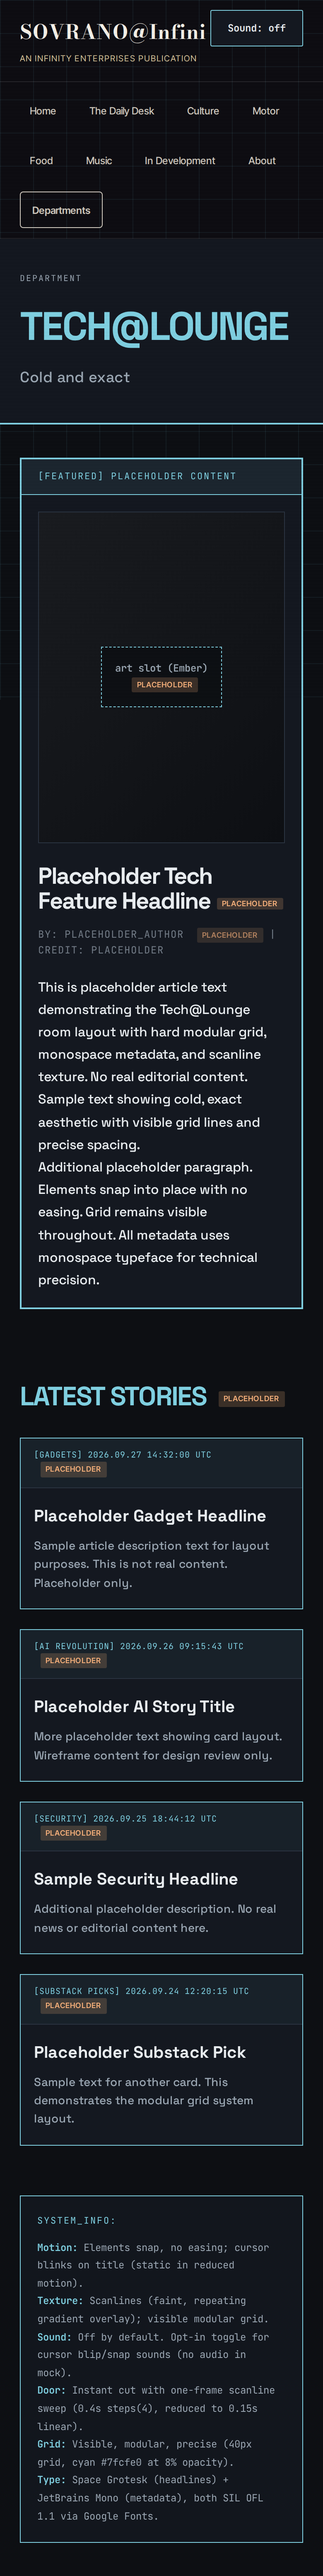
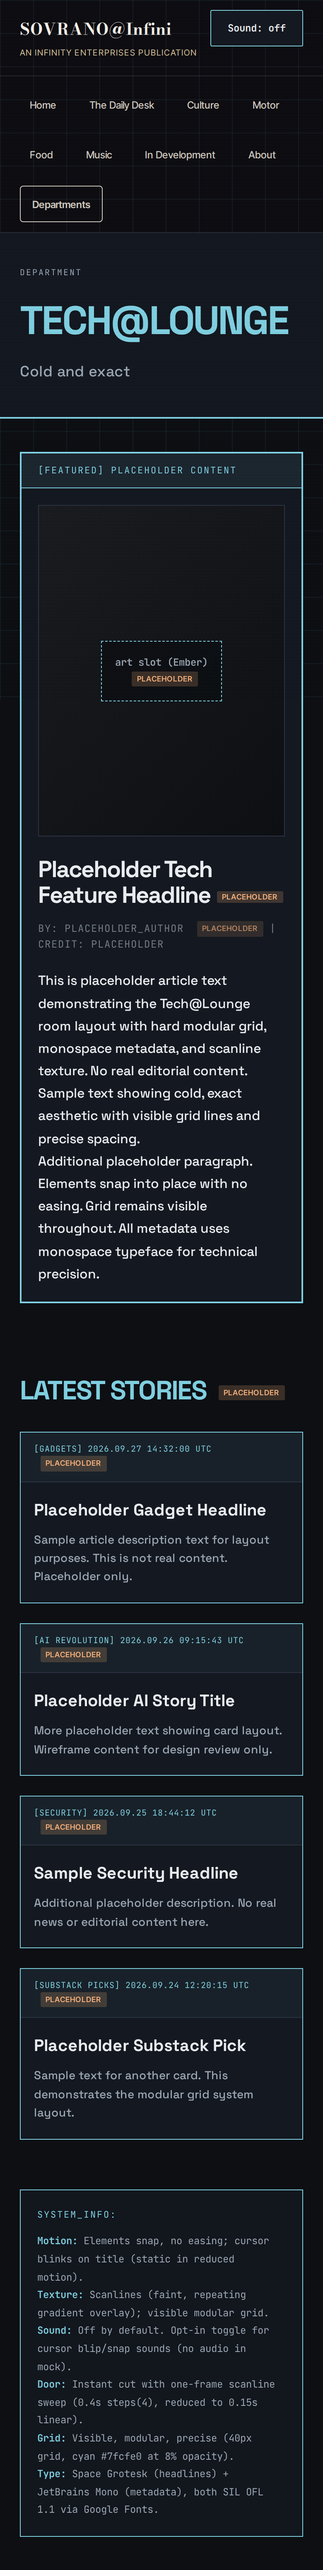
Fix issue #35 v2 comparison images and phone masthead (#35)
Two fixes:
1. BLOCKER: Rebuilt comparison PNGs with PIL (not iframe composition) to show real content instead of solid black. Desktop (4320x3400) and phone (2340x7344) now composite three individual room screenshots side-by-side deterministically. Verified variance: desktop min=0 max=251 mean=81.13, phone min=0 max=251 mean=87.03 (not solid color).

2. MINOR: Fixed masthead wordmark clipping at 390px. Added right padding (100px) and clamp font-size (18-24px) so SOVRANO@Infini displays fully without sound toggle overlap at 390px and 360px viewports.

Re-captured phone screenshots (music, tech-lounge, food) and rebuilt phone comparison. Build passes.

diff --git a/design/issue-mocks/issue-35-v2/shell.css b/design/issue-mocks/issue-35-v2/shell.css
@@ -138,10 +138,12 @@ button:focus,
 @media (max-width: 768px) {
   .masthead {
     padding: 20px 24px;
+    padding-right: 100px; /* Reserve space for sound toggle */
   }
   
   .masthead-wordmark {
-    font-size: 24px;
+    font-size: clamp(18px, 5vw, 24px);
+    word-break: break-word;
   }
   
   .masthead-subline {

diff --git a/design/issue-mocks/issue-35-v2/build-comparisons.py b/design/issue-mocks/issue-35-v2/build-comparisons.py
@@ -1,0 +1,126 @@
+#!/usr/bin/env python3
+"""
+Build comparison boards from individual room screenshots
+Deterministic image composition using PIL
+"""
+
+from PIL import Image, ImageDraw, ImageFont
+import os
+
+# Paths
+mock_dir = '/workspace/design/issue-mocks/issue-35-v2'
+artifact_dir = '/opt/cursor/artifacts/issue-35-v2'
+
+rooms = ['music', 'tech-lounge', 'food']
+room_labels = ['Music', 'Tech@Lounge', 'Food']
+
+def verify_image_variance(img_path, name):
+    """Verify image has real content (not all black or all white)"""
+    img = Image.open(img_path)
+    grayscale = img.convert('L')
+    
+    # Get pixel data
+    pixels = list(grayscale.getdata())
+    
+    # Calculate stats
+    min_val = min(pixels)
+    max_val = max(pixels)
+    mean_val = sum(pixels) / len(pixels)
+    
+    # Check for solid colors
+    is_all_black = (min_val == 0 and max_val == 0)
+    is_all_white = (min_val == 255 and max_val == 255)
+    is_solid = (min_val == max_val)
+    
+    print(f"  {name}:")
+    print(f"    Min: {min_val}, Max: {max_val}, Mean: {mean_val:.2f}")
+    print(f"    Solid color: {is_solid}, All black: {is_all_black}, All white: {is_all_white}")
+    
+    if is_all_black or is_all_white or is_solid:
+        raise ValueError(f"{name} appears to be a solid color image!")
+    
+    return min_val, max_val, mean_val
+
+
+print("Building desktop comparison (1440px width per room)...\n")
+
+# Load individual desktop screenshots
+desktop_images = []
+for room in rooms:
+    img_path = os.path.join(mock_dir, f'{room}-desktop-1440.png')
+    img = Image.open(img_path)
+    desktop_images.append(img)
+    print(f"Loaded {room}-desktop-1440.png: {img.size}")
+
+# Create composite (side by side, take max height)
+max_height = max(img.height for img in desktop_images)
+total_width = sum(img.width for img in desktop_images)
+
+desktop_composite = Image.new('RGB', (total_width, max_height), color='black')
+
+# Paste images side by side
+x_offset = 0
+for i, img in enumerate(desktop_images):
+    desktop_composite.paste(img, (x_offset, 0))
+    print(f"Pasted {rooms[i]} at x={x_offset}")
+    x_offset += img.width
+
+# Save desktop comparison
+desktop_path = os.path.join(mock_dir, 'compare-desktop.png')
+desktop_composite.save(desktop_path, 'PNG')
+print(f"\nSaved: {desktop_path} ({desktop_composite.size})")
+
+# Also save to artifacts
+desktop_artifact_path = os.path.join(artifact_dir, 'compare-desktop.png')
+desktop_composite.save(desktop_artifact_path, 'PNG')
+print(f"Saved: {desktop_artifact_path}")
+
+
+print("\n" + "="*60)
+print("Building phone comparison (390px width per room)...\n")
+
+# Load individual phone screenshots
+phone_images = []
+for room in rooms:
+    img_path = os.path.join(mock_dir, f'{room}-phone-390.png')
+    img = Image.open(img_path)
+    phone_images.append(img)
+    print(f"Loaded {room}-phone-390.png: {img.size}")
+
+# Create composite (side by side, take max height)
+max_height = max(img.height for img in phone_images)
+total_width = sum(img.width for img in phone_images)
+
+phone_composite = Image.new('RGB', (total_width, max_height), color='black')
+
+# Paste images side by side
+x_offset = 0
+for i, img in enumerate(phone_images):
+    phone_composite.paste(img, (x_offset, 0))
+    print(f"Pasted {rooms[i]} at x={x_offset}")
+    x_offset += img.width
+
+# Save phone comparison
+phone_path = os.path.join(mock_dir, 'compare-phone.png')
+phone_composite.save(phone_path, 'PNG')
+print(f"\nSaved: {phone_path} ({phone_composite.size})")
+
+# Also save to artifacts
+phone_artifact_path = os.path.join(artifact_dir, 'compare-phone.png')
+phone_composite.save(phone_artifact_path, 'PNG')
+print(f"Saved: {phone_artifact_path}")
+
+
+print("\n" + "="*60)
+print("VERIFICATION: Image variance checks\n")
+
+# Verify desktop comparison
+print("Desktop comparison:")
+desk_stats = verify_image_variance(desktop_path, 'compare-desktop.png')
+
+print("\nPhone comparison:")
+phone_stats = verify_image_variance(phone_path, 'compare-phone.png')
+
+print("\n✓ All comparisons verified with real content")
+print(f"Desktop comparison: {os.path.getsize(desktop_path)} bytes")
+print(f"Phone comparison: {os.path.getsize(phone_path)} bytes")
